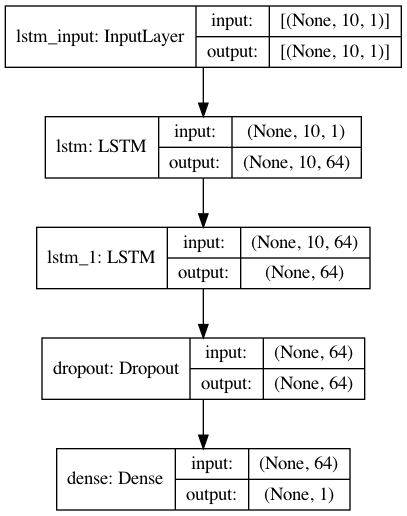
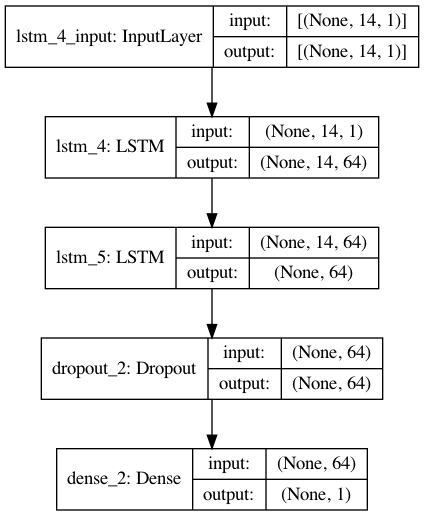
增加lag表

diff --git a/test.py b/test.py
@@ -112,10 +112,9 @@ def open_file():
     :return:
     '''
     global file_path
-    text1 = tkinter.Text(window, width=50, height=10, bg='orange', font=('Arial', 12))
-    text1.pack()
-    file_path = filedialog.askopenfilename(title=u'选择文件', initialdir=(os.path.expanduser('/Users/bytedance/python/trafficPrediction/data/100211data/')))
+    file_path = filedialog.askopenfilename(title=u'选择文件', initialdir=(os.path.expanduser('/Users/bytedance/python/trafficPrediction/data/100211data/100211_weekend_test.csv')))
     print('打开文件：', file_path)
+
 
 def compareMLPAndLSTM():
     lag = 10
@@ -125,7 +124,7 @@ def compareMLPAndLSTM():
     names = ['AllDense','lstm']
     file1 = 'data/100211data/100211_weekend_train.csv'
     file2 = 'data/100211data/100211_weekend_test.csv'
-    _, _, X_test, y_test, scaler = process_data(file_path, file2, lag)
+    _, _, X_test, y_test, scaler = process_data(file1, file_path, lag)
     y_test = scaler.inverse_transform(y_test.reshape(-1, 1)).reshape(1, -1)[0]
 
     y_preds = []
@@ -175,6 +174,68 @@ def compareMLPAndLSTM():
 
     dataTable.mainloop()
 
+def compareLSTMWithLag():
+    file1 = 'data/100211data/100211_weekend_train.csv'
+    file2 = 'data/100211data/100211_weekend_test.csv'
+
+    y_preds = []
+    columnData=[]
+    names=[]
+    for lag in range(4,16,2):
+        model = load_model("model/lstm-" + str(lag) + ".h5")
+        _, _, X_test, y_test, scaler = process_data(file1, file_path, lag)
+        y_test = scaler.inverse_transform(y_test.reshape(-1, 1)).reshape(1, -1)[0]
+        X_test = np.reshape(X_test, (X_test.shape[0], X_test.shape[1], 1))
+        file = 'images/lstm.png'
+        plot_model(model, to_file=file, show_shapes=True)
+        predicted = model.predict(X_test)
+        predicted = scaler.inverse_transform(predicted.reshape(-1, 1)).reshape(1, -1)[0]
+        y_preds.append(predicted[0:288])
+        print("lag=",lag)
+        names.append("lstm lag="+str(lag))
+        evaValue = eva_regress(y_test, predicted)
+        columnData.append(evaValue)
+    plot_results(y_test[0:288], y_preds, names)
+    print(columnData)
+    print(np.array(columnData)[:,0])
+    dataTable = tkinter.Toplevel()
+    dataTable.title("LSTM选取不同lag的训练参数比较")
+    dataTable.geometry("1600x1600")
+
+    # 创建表格
+    tree_date = ttk.Treeview(dataTable)
+
+    # 定义列
+    tree_date['columns'] = ['lag=4','lag=6','lag=8','lag=10','lag=12','lag=14']
+    tree_date.pack()
+
+    # 设置列宽度
+    tree_date.column('lag=4', width=200)
+    tree_date.column('lag=6', width=200)
+    tree_date.column('lag=8', width=200)
+    tree_date.column('lag=10', width=200)
+    tree_date.column('lag=12', width=200)
+    tree_date.column('lag=14', width=200)
+
+    tree_date.heading('lag=4', text='lag=4')
+    tree_date.heading('lag=6', text='lag=6')
+    tree_date.heading('lag=8', text='lag=8')
+    tree_date.heading('lag=10', text='lag=10')
+    tree_date.heading('lag=12', text='lag=12')
+    tree_date.heading('lag=14', text='lag=14')
+
+    # 给表格中添加数据
+    tree_date.insert('', 0, text='EVS', values=tuple(np.array(columnData)[:,0]))
+    tree_date.insert('', 1, text='MAPE', values=tuple(np.array(columnData)[:,1]))
+    tree_date.insert('', 2, text='MAE', values=tuple(np.array(columnData)[:,2]))
+    tree_date.insert('', 3, text='MSE', values=tuple(np.array(columnData)[:,3]))
+
+    img=Image.open('/Users/bytedance/python/trafficPrediction/images/pre_weekend_time.png')
+    img_png = ImageTk.PhotoImage(img)
+    label_img = ttk.Label(dataTable, image=img_png)
+    label_img.pack()
+
+    dataTable.mainloop()
 
 def main():
     # lag = 12
@@ -207,17 +268,18 @@ def main():
     #入口
 
     #选择测试文件
-    bt2 = tkinter.Button(window, text='打开文件', width=30, height=15, command=open_file)
-    bt2.pack()
+    bt3 = tkinter.Button(window, text='打开文件', width=18, height=2,bg='orange', command=open_file)
+    bt3.pack()
     # 对比MLP和LSTM
-    bt1 = tkinter.Button(window, text='对比MLP和LSTM', width=30, height=15, command=compareMLPAndLSTM)
+    bt1 = tkinter.Button(window, text='对比MLP和LSTM', width=18, height=5, command=compareMLPAndLSTM)
     bt1.pack()
 
     # 对比不同的lag
+    bt2 = tkinter.Button(window, text='对比LSTM不同的Lag', width=18, height=5, command=compareLSTMWithLag)
+    bt2.pack()
+
 
     window.mainloop()
-
-
 
 
 if __name__ == '__main__':
